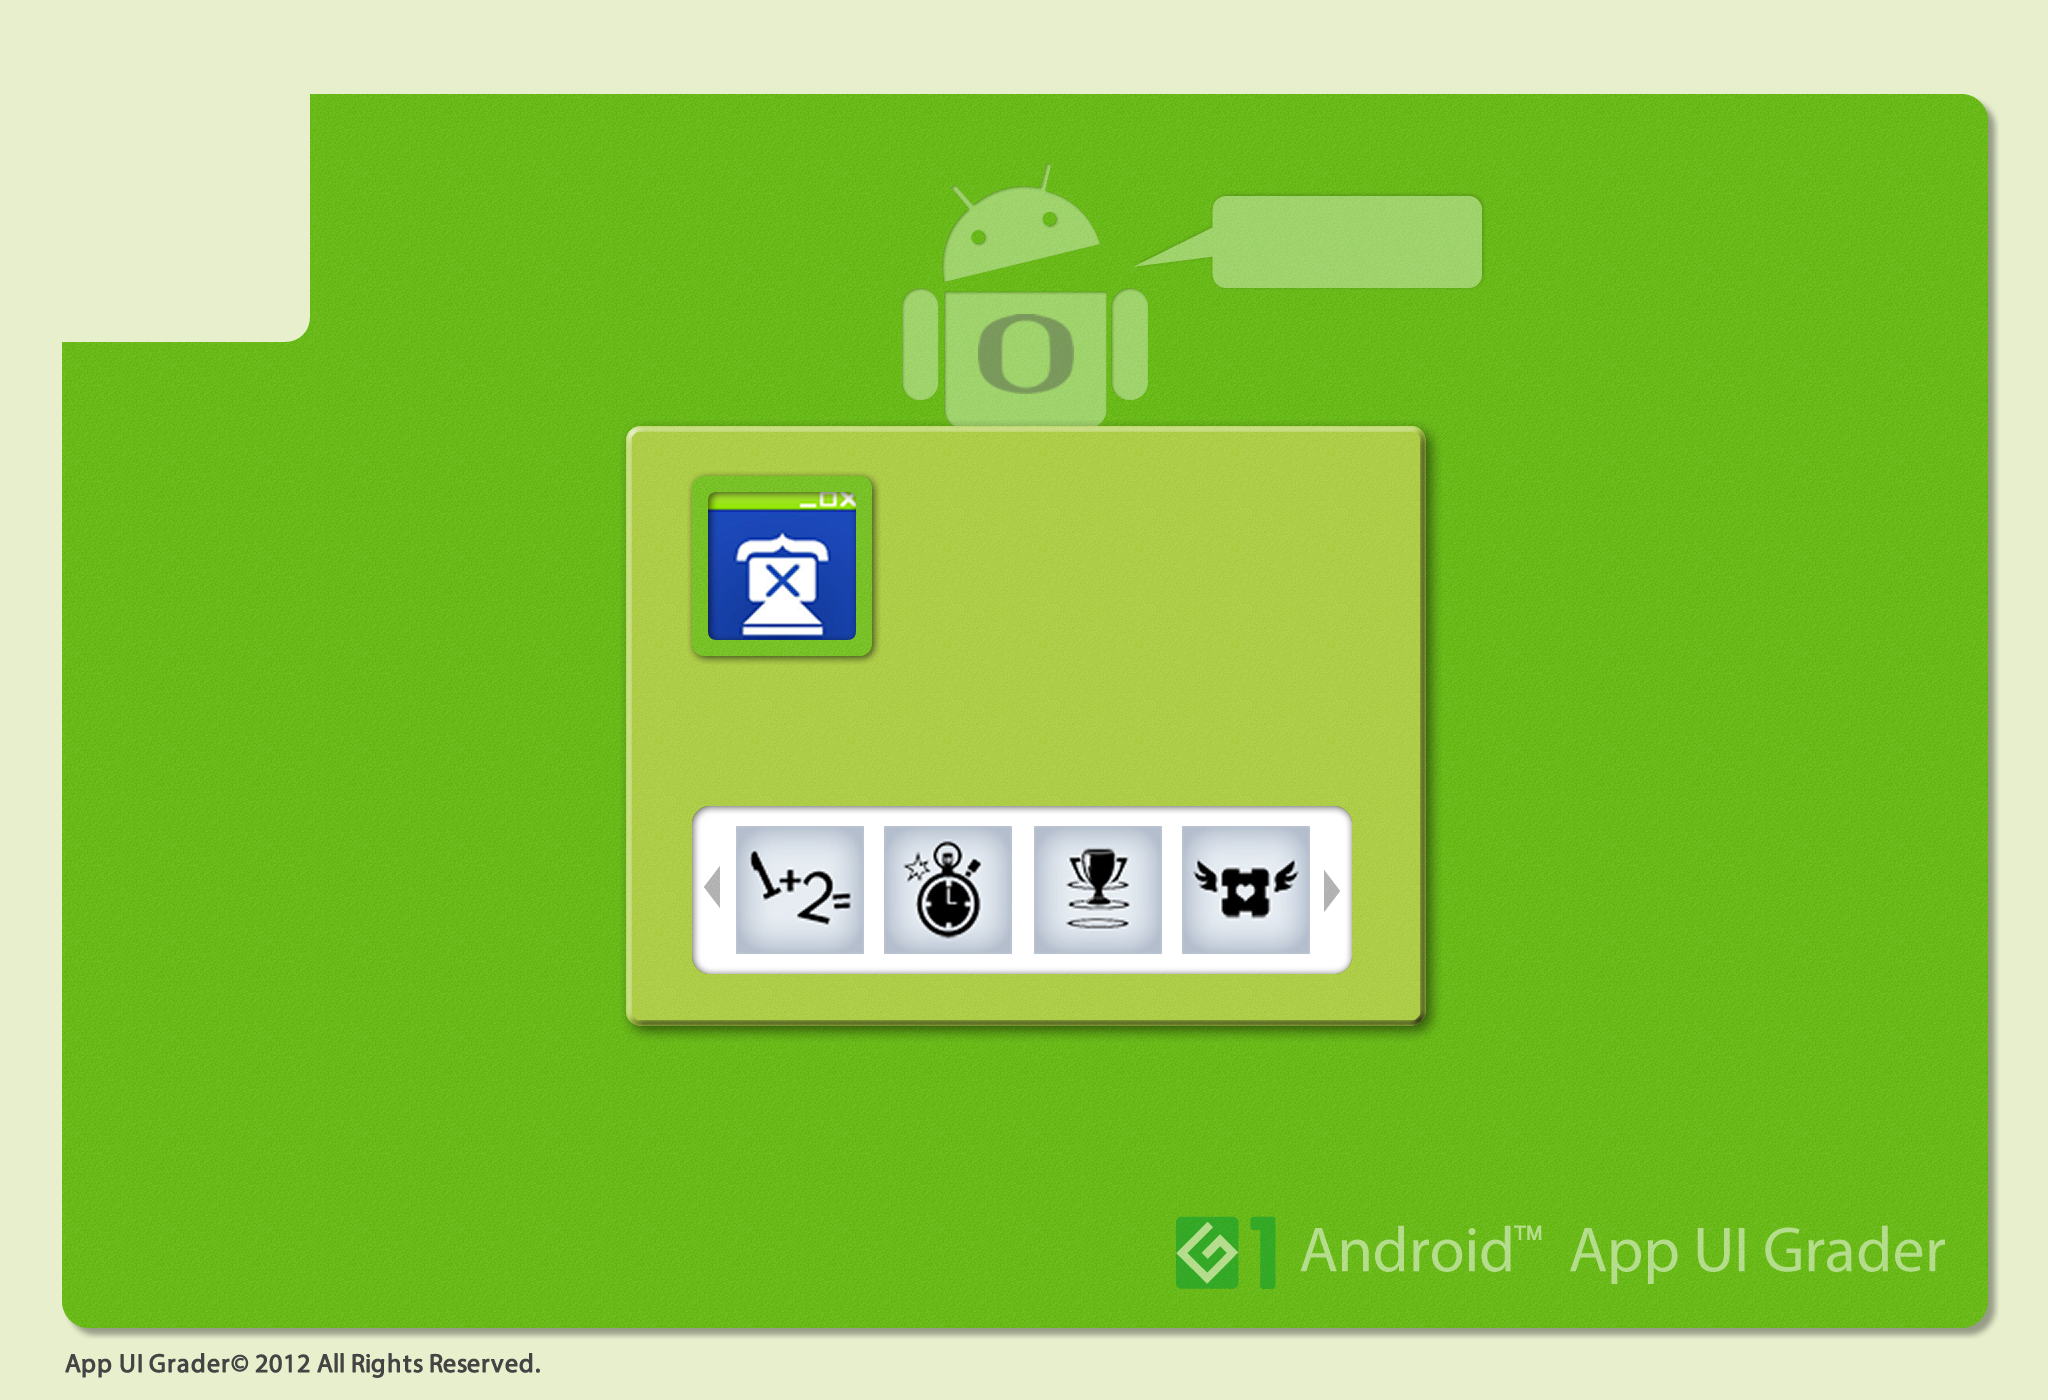
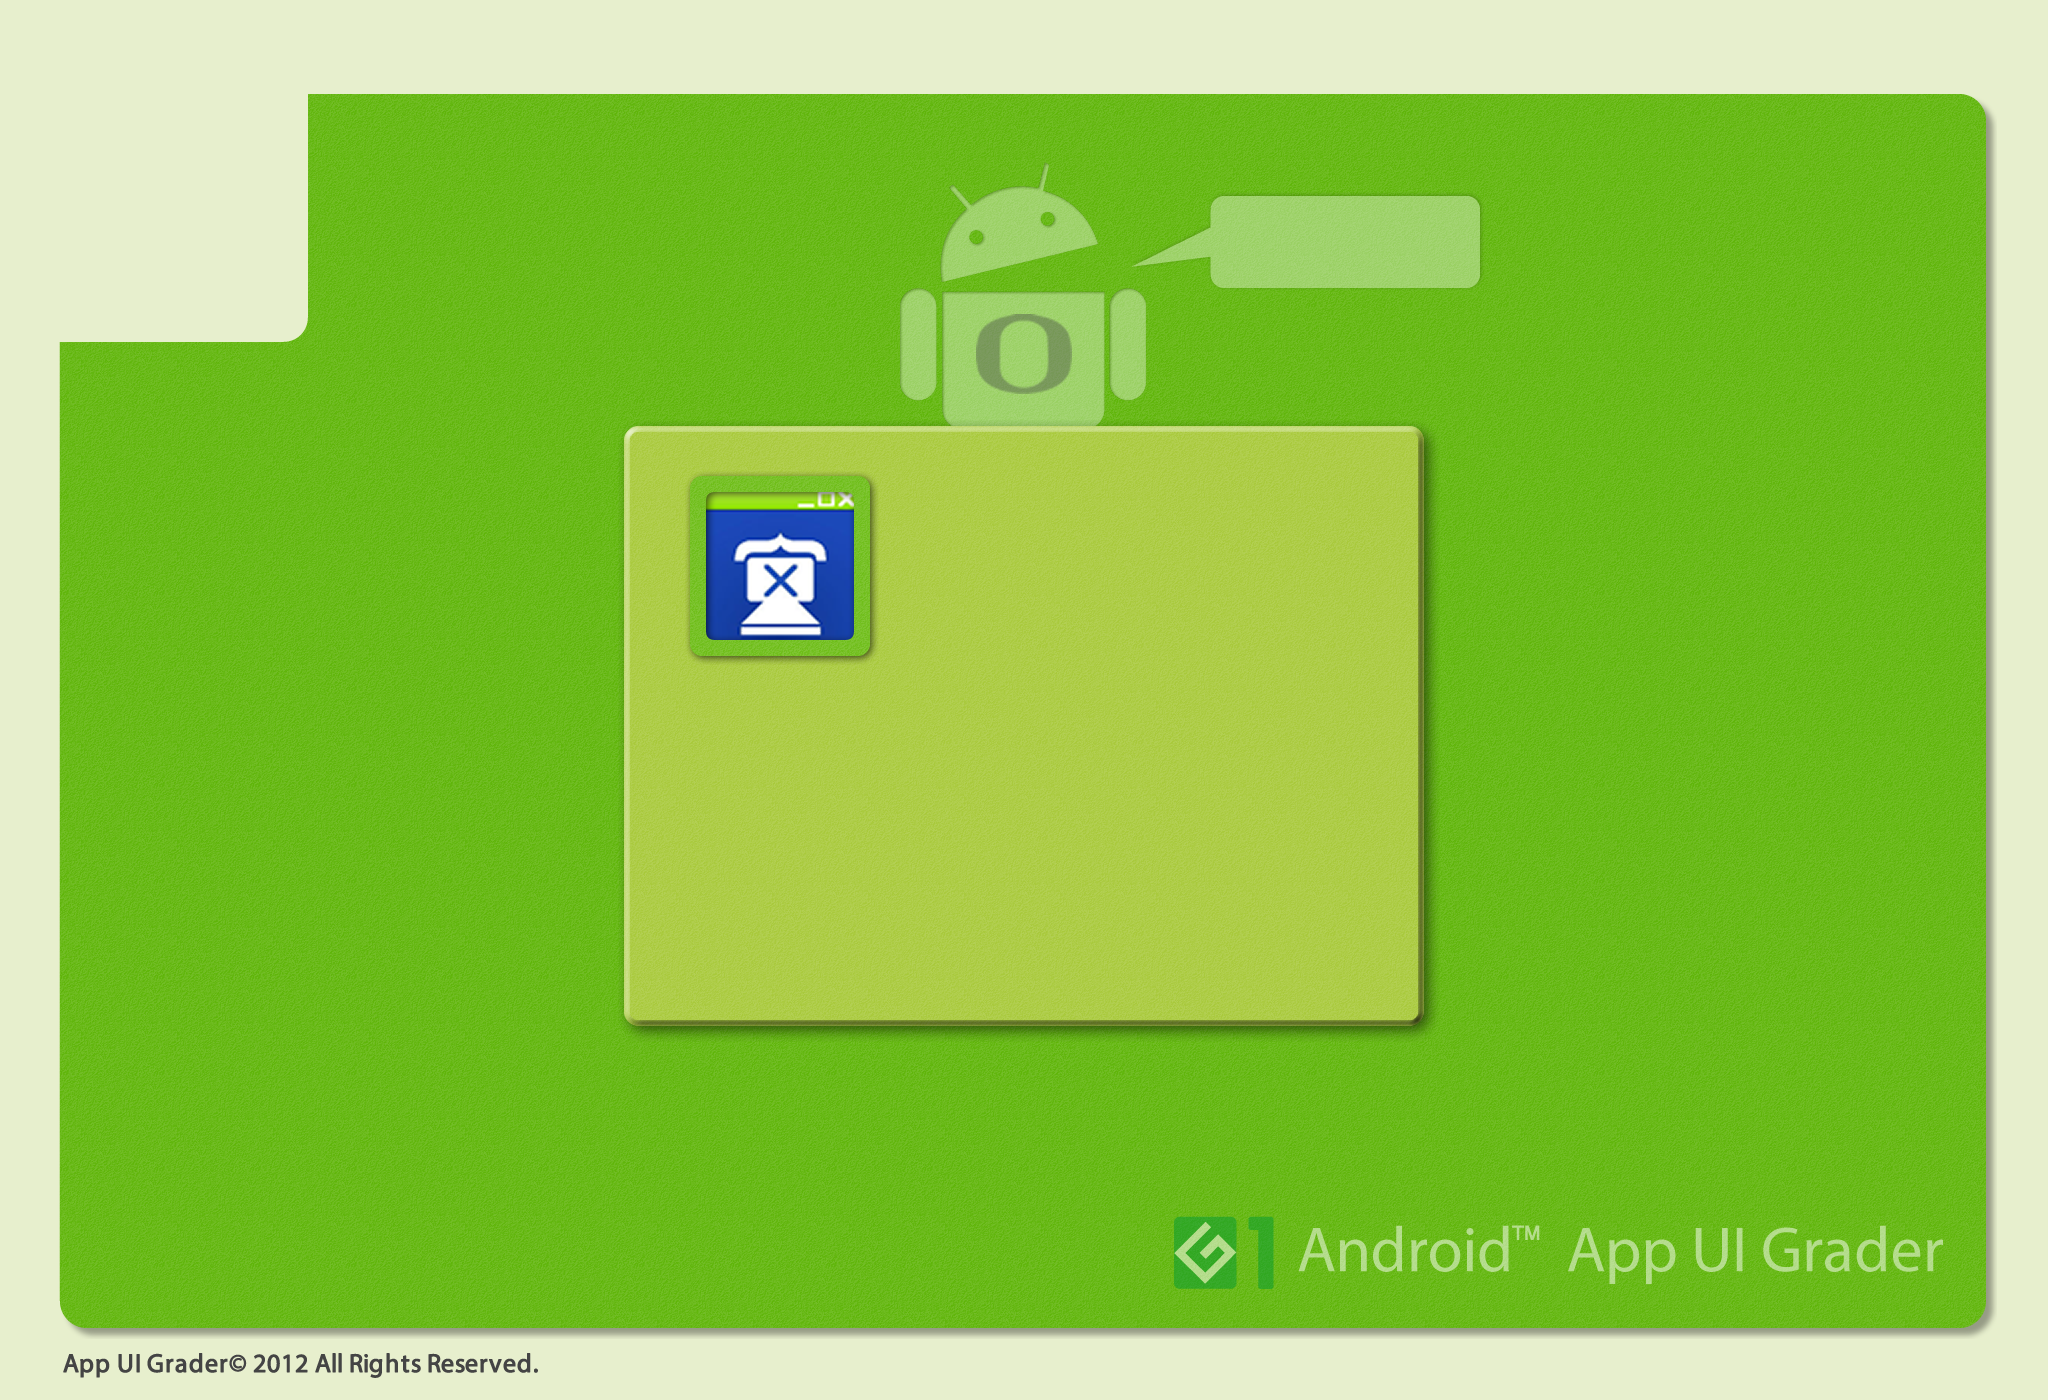
fix bug for image in profile and report

diff --git a/DatabaseOperation/web/css/report.less b/DatabaseOperation/web/css/report.less
@@ -20,7 +20,7 @@ html{
   			
   			.Panel {
 	position: relative;
-	top: 80px;
+	top: 100px;
 	left: 300px;
 	width:400px;
 }
@@ -31,7 +31,7 @@ html{
   			width:119px;
   			height:119px;
   			left:30px;
-  			top:25px;
+  			top:45px;
   			}
   		.inputaera{
   			font-size:16px;
